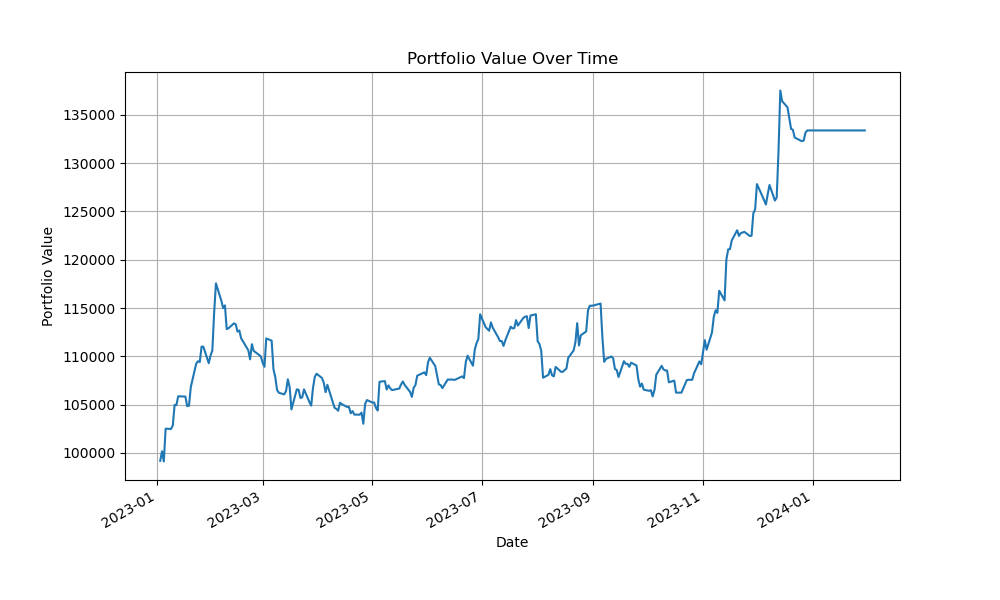
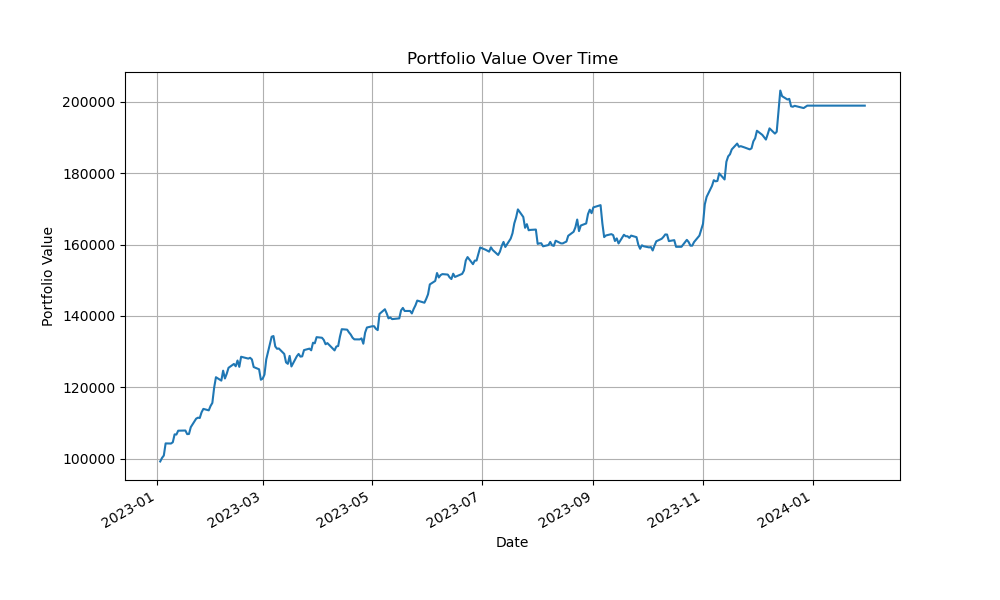
modified the strategy

diff --git a/model/strategy.py b/model/strategy.py
@@ -175,6 +175,12 @@ class ShortStrategy(MyStrategy):
             returns = hist.pct_change().dropna()
             sharpes[symbol] = self.calculate_sharpe_ratio(returns)
 
+            # 计算beta值
+            benchmark_hist = self.data['SPY'][
+              (self.data.index <= current_date) & (self.data.index > current_date - timedelta(days=365))]
+            benchmark_returns = benchmark_hist.pct_change().dropna()
+            betas[symbol] = self.calculate_beta(returns, benchmark_returns)
+
         weights = {}
         selected_symbols = []
         current_date_index = self.data.index.get_loc(current_date)
@@ -203,6 +209,15 @@ class ShortStrategy(MyStrategy):
                     if symbol in selected_symbols:
                         selected_symbols.remove(symbol)  # Skip buying this stock
 
+        plus_symbols = []
+        if self.is_bull_market(current_date):
+          plus_symbols = [symbol for symbol in self.symbols if betas.get(symbol, 0) > 1]
+        else:
+          plus_symbols = [symbol for symbol in self.symbols if betas.get(symbol, 0) < 0.2]
+        for symbol in plus_symbols:
+          if symbol not in selected_symbols:
+            selected_symbols.append(symbol)
+
         # set the weights for selected symbols
         weights = {}
         for symbol, model_predict in self.model_predict.items():
@@ -210,6 +225,9 @@ class ShortStrategy(MyStrategy):
             if not symbol in selected_symbols:
                 continue
             weights[symbol] = model_predict_tomorrow
+
+        for symbol in plus_symbols:
+          weights[symbol] = 0.3
 
         weight_sum = sum(weights.values())
         weights = {key: value / weight_sum for key, value in weights.items()}

diff --git a/backend/routes/strategy_routes.py b/backend/routes/strategy_routes.py
@@ -172,6 +172,12 @@ class ShortStrategy(MyStrategy):
       returns = hist.pct_change().dropna()
       sharpes[symbol] = self.calculate_sharpe_ratio(returns)
 
+      # 计算beta值
+      benchmark_hist = self.data['SPY'][
+        (self.data.index <= current_date) & (self.data.index > current_date - timedelta(days=365))]
+      benchmark_returns = benchmark_hist.pct_change().dropna()
+      betas[symbol] = self.calculate_beta(returns, benchmark_returns)
+
     weights = {}
     selected_symbols = []
     current_date_index = self.data.index.get_loc(current_date)
@@ -200,6 +206,16 @@ class ShortStrategy(MyStrategy):
           if symbol in selected_symbols:
             selected_symbols.remove(symbol)  # Skip buying this stock
 
+    plus_symbols = []
+    if self.is_bull_market(current_date):
+      plus_symbols = [symbol for symbol in self.symbols if betas.get(symbol, 0) > 1]
+    else:
+      plus_symbols = [symbol for symbol in self.symbols if betas.get(symbol, 0) < 0.2]
+    for symbol in plus_symbols:
+      if symbol not in selected_symbols:
+        selected_symbols.append(symbol)
+
+
     # set the weights for selected symbols
     weights = {}
     for symbol, model_predict in self.model_predict.items():
@@ -207,6 +223,10 @@ class ShortStrategy(MyStrategy):
       if not symbol in selected_symbols:
         continue
       weights[symbol] = model_predict_tomorrow
+
+    for symbol in plus_symbols:
+      weights[symbol] = 0.3
+
 
     weight_sum = sum(weights.values())
     weights = {key: value / weight_sum for key, value in weights.items()}
